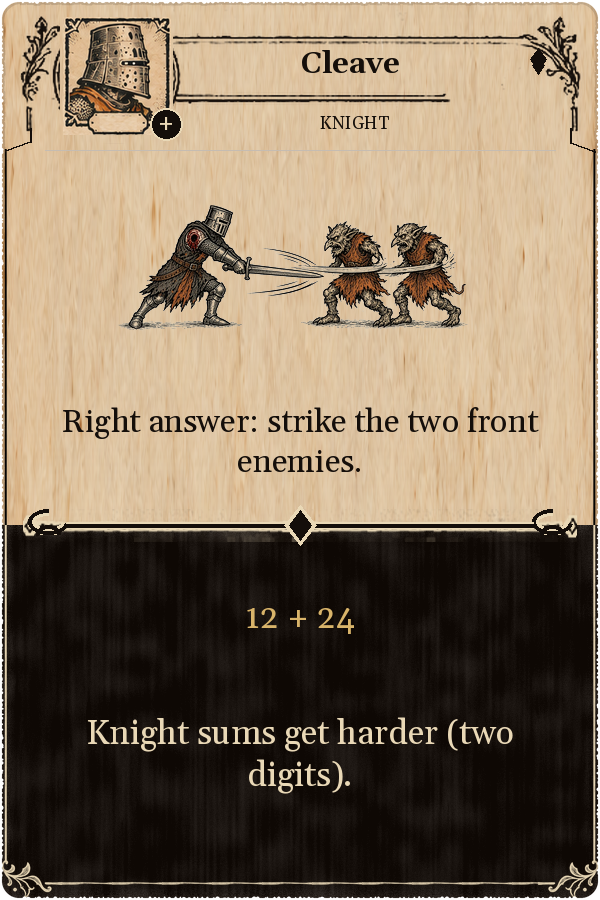
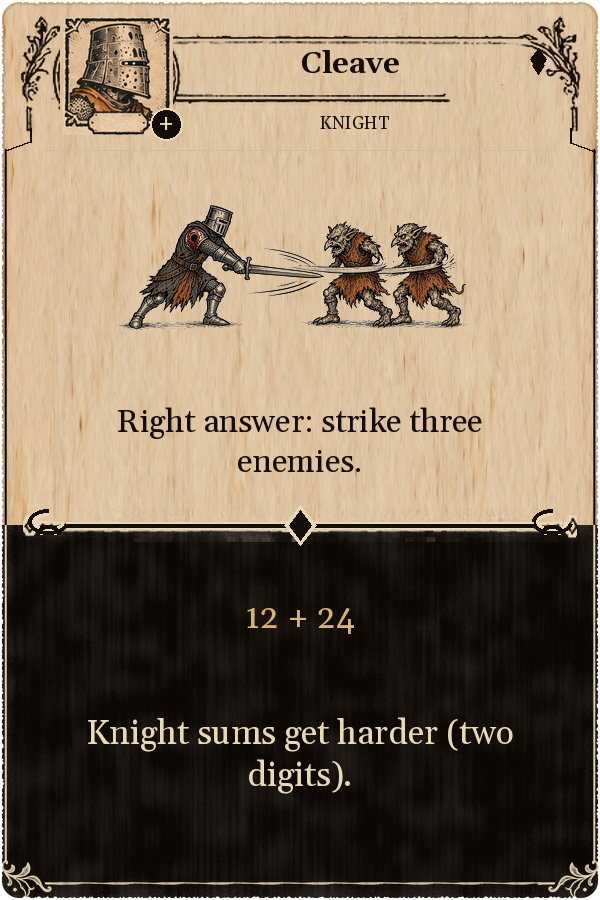
Cleave and Swing and a Miss: 'strike three enemies' text (Magnus approved)

Changed region(s): [[0.09, 0.4356, 0.9, 0.4978]]

diff --git a/src/data/upgrade_cards.js b/src/data/upgrade_cards.js
@@ -5,9 +5,9 @@ window.KM_DATA = window.KM_DATA || {};
 KM_DATA.upgradeCards = {
   offered: 2, // cards shown per pick
   list: [
-    { id: "cleave", owner: "knight", img: "assets/ui/cards/cleave.png", name: "Cleave",
+    { id: "cleave", owner: "knight", img: "assets/ui/cards/cleave.png?v=3t", name: "Cleave",
       effect: { knightTargets: 1 }, cost: { level: { knight: 1 } } },          // knight sums get two digits
-    { id: "swing_and_a_miss", owner: "knight", img: "assets/ui/cards/swing_and_a_miss.png", name: "Swing and a Miss",
+    { id: "swing_and_a_miss", owner: "knight", img: "assets/ui/cards/swing_and_a_miss.png?v=3t", name: "Swing and a Miss",
       effect: { knightTargets: 1 }, cost: { missChip: 1 } },                  // 1 heart unit (½ heart with half-hearts), never the last
     { id: "embers", owner: "firestarter", img: "assets/ui/cards/embers.png", name: "Embers",
       effect: { burn: 1 }, cost: { level: { firestarter: 2 } } },             // fire sums climb to tables up to 9

diff --git a/index.html b/index.html
@@ -49,7 +49,7 @@
 <script src="src/data/tomb.js?v=tomb-40"></script>
 <script src="src/data/chapters.js?v=crypt-1"></script>
 <script src="src/data/balance_try.js?v=cards-2"></script>
-<script src="src/data/upgrade_cards.js?v=cards-3"></script>
+<script src="src/data/upgrade_cards.js?v=cards-4"></script>
 <script src="src/data/wizard.js?v=village-jp-15b"></script>
 <script src="src/config/art_v10.js"></script>
 <script src="src/config/art_v10_apply.js?v=village-jp-15b"></script>
